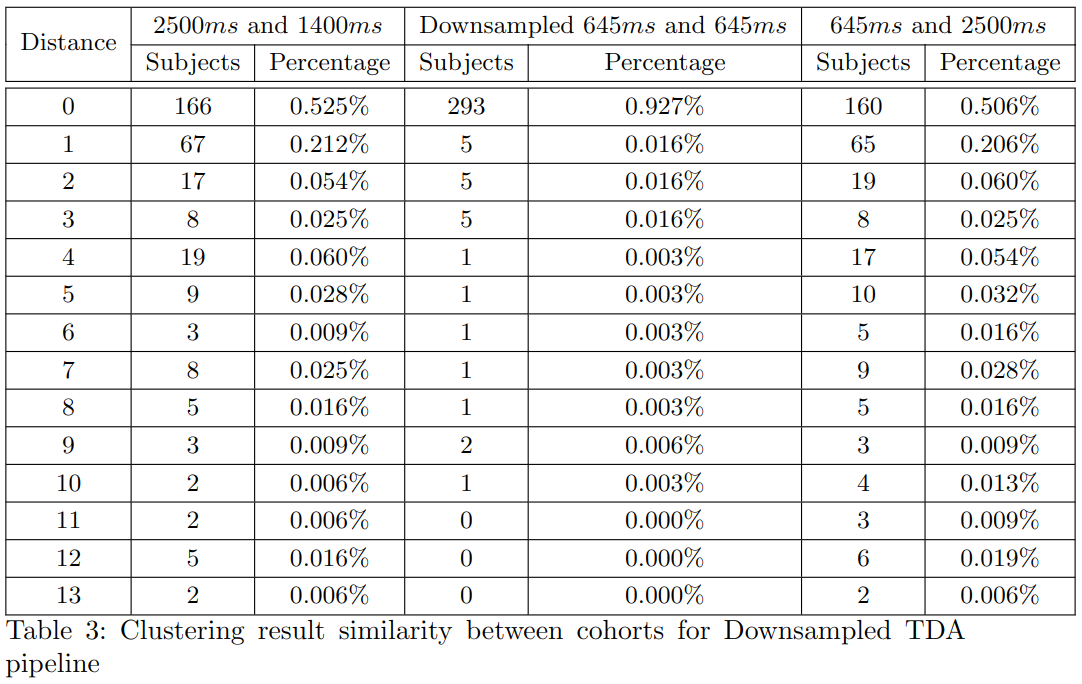
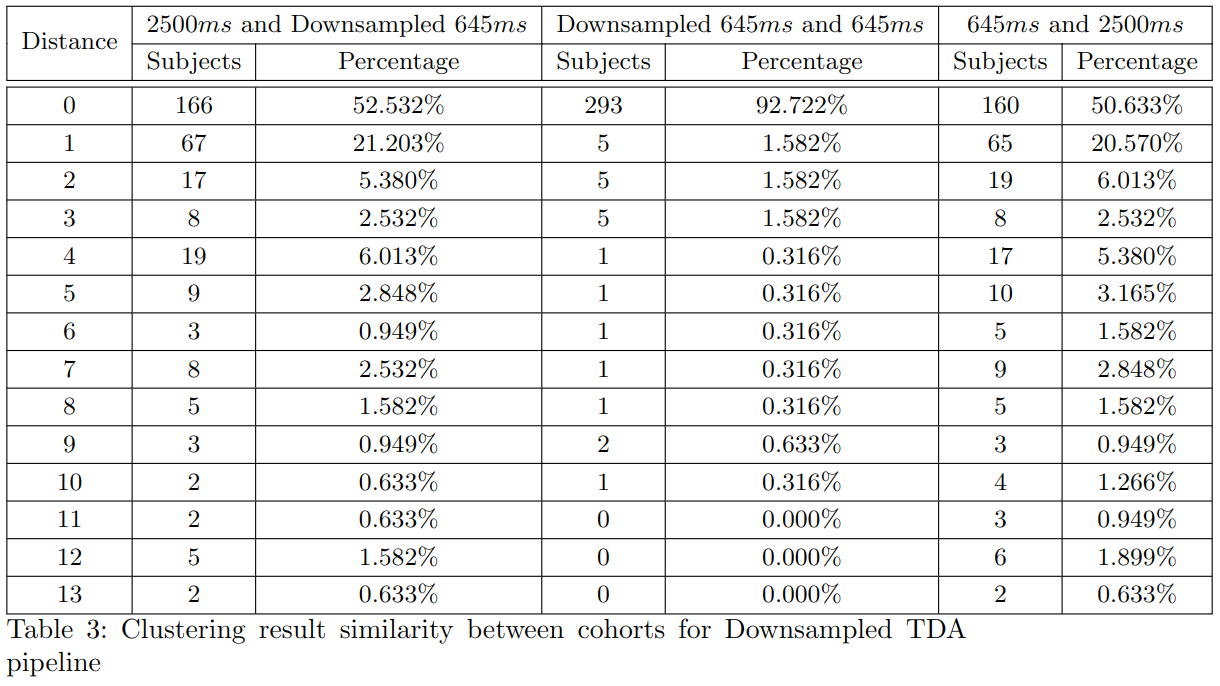
fixed percentage error in pairwise similarity

Changed region(s): [[0.0, 0.0, 1.0, 1.0]]

diff --git a/cluster_calculation.py b/cluster_calculation.py
@@ -167,11 +167,13 @@ def show_pairwise_analysis(file_path):
             dfc_645_2500_subjects = dfc_645_2500[i][1]
         print(i, end=" & ")
         print(dfc_2500_1400_subjects, end=" & ")
-        print(f"{(dfc_2500_1400_subjects / total_subjects):.3f}\\%", end=" & ")
+        print(f"{(dfc_2500_1400_subjects / total_subjects) * 100:.3f}\\%",
+              end=" & ")
         print(dfc_1400_645_subjects, end=" & ")
-        print(f"{(dfc_1400_645_subjects / total_subjects):.3f}\\%", end=" & ")
+        print(f"{(dfc_1400_645_subjects / total_subjects) * 100:.3f}\\%",
+              end=" & ")
         print(dfc_645_2500_subjects, end=" & ")
-        print(f"{(dfc_645_2500_subjects / total_subjects):.3f}\\%",
+        print(f"{(dfc_645_2500_subjects / total_subjects) * 100:.3f}\\%",
               end=" \\\\ \hline \n")
 
 
@@ -207,9 +209,11 @@ def main():
                             csv_file_path="clusters.csv")
 
     # show_pairwise_analysis(file_path="output/clusters_kmeans/clusters.json")
-    # show_pairwise_analysis(file_path="output/clusters_kmeans_down/clusters_down.json")
+    # show_pairwise_analysis(
+    #     file_path="output/clusters_kmeans_down/clusters_down.json")
     # show_pairwise_analysis(
     #     file_path="output/clusters_kmeans_non_tda/clusters.json")
+
 
 if __name__ == "__main__":
     main()
